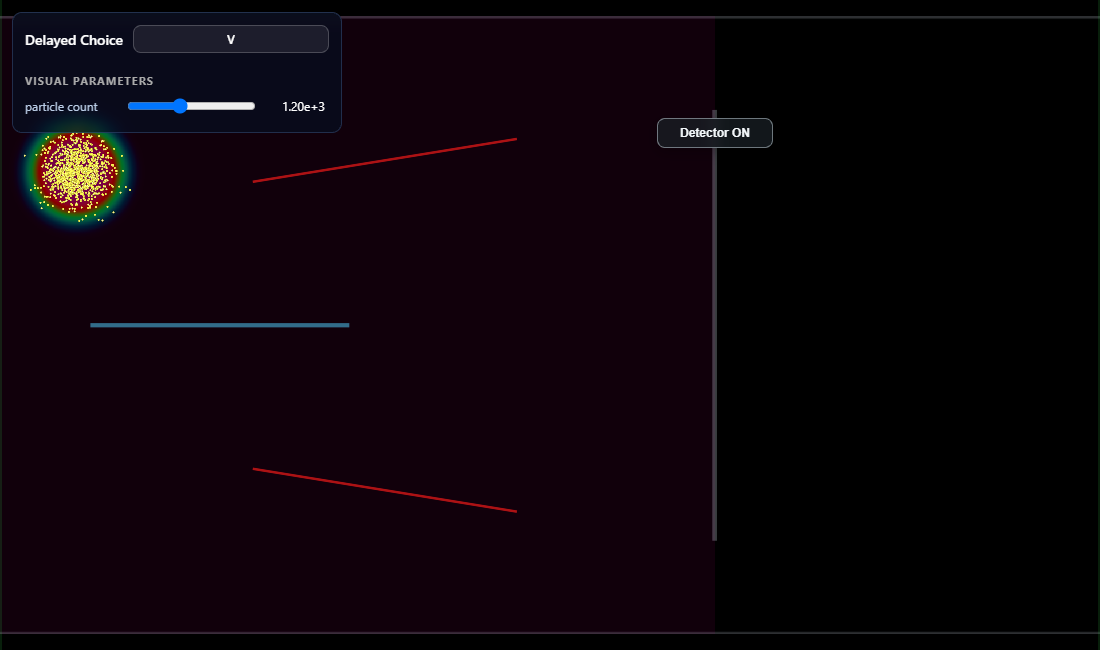
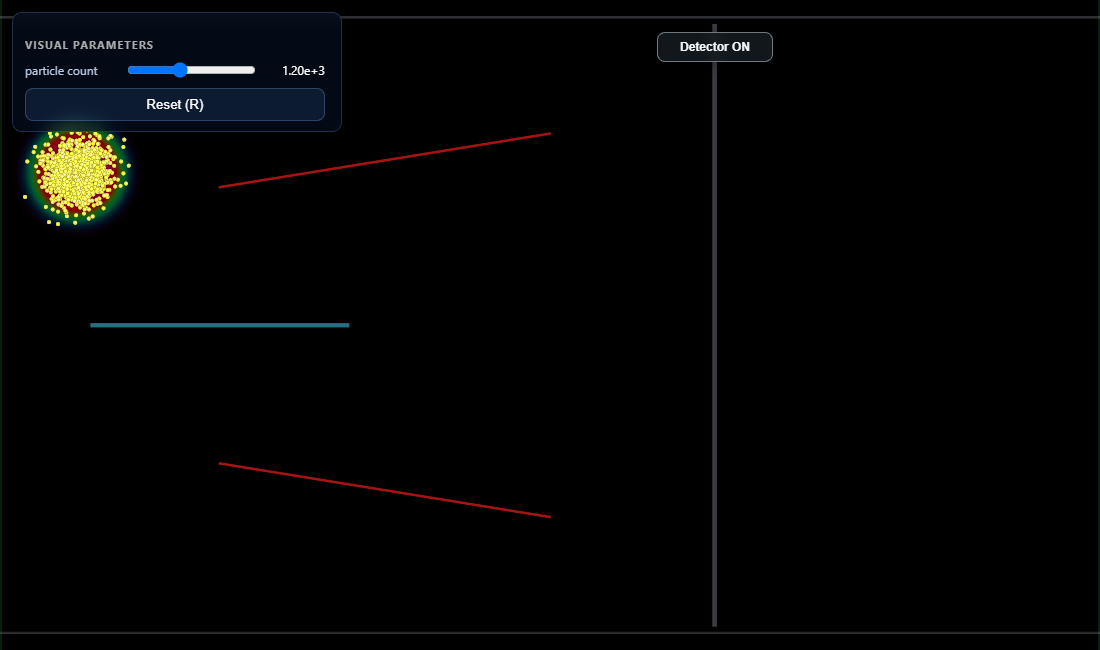
better

diff --git a/delayed-choice/main.js b/delayed-choice/main.js
@@ -70,7 +70,7 @@ const params = {
   guideMirrorX: 0.35,
   guideMirrorAngleTrimDeg: 0,
   guideMirrorYTrim: 0.0,
-  guideMirrorLength: 1550.0,
+  guideMirrorLength: 1950.0,
   guideMirrorWidth: 8.0,
   guideMirrorPhysicalWidth: 2.0,
   guideMirrorV0: 160.0,
@@ -145,9 +145,11 @@ const PRESETS = {
   splitter: {
     params: {
       ...embeddedBasePreset,
-      nParticles: 2,
-      dotSize: 14,
-      trailHalfLife: 90,
+      nParticles: 1,
+      trailHalfLife: 190,
+      dotSize: 15,
+      trailWidth: 11,
+      trailVisGain: 0.9,
     },
     adjustable: ["p0"],
   },
@@ -160,6 +162,7 @@ const PRESETS = {
       dotSize: 5,
       trailHalfLife: 25,
       trailWidth: 3,
+      showTrail: 0,
     },
     adjustable: ["nParticles"],
   },
@@ -173,7 +176,7 @@ const PRESETS = {
       trailWidth: 4,
       detectorActive: 0,
     },
-    adjustable: [],
+    adjustable: ["nParticles"],
   },
 };
 
@@ -406,7 +409,7 @@ addSlider("stepsPerFrame", "Steps/frame", 1, 100, 1);
 addSlider("dt", "dt", 0.01, 0.02, 0.001);
 
 addSectionHeader("Physical Parameters");
-addSlider("p0", "Momentum p", 0.5, 8.0, 0.1, () => resetAll());
+addSlider("p0", "Momentum p", 0.5, 4.0, 0.1, () => resetAll());
 
 addSlider("packetSigma", "packet sigma", 10.0, 150.0, 10.0);
 //addSlider("splitterX", "splitter x", 0.0, 1.0, 0.01, () => resetAll());
@@ -492,7 +495,7 @@ addSlider("trailHalfLife", "trail half-life", 1.0, 150.0, 1.0);
 addSlider("trailWidth", "trail width (px)", 0.5, 10.0, 0.1);
 
 removeEmptySectionHeaders();
-if (presetDefinition && controls.children.length === 0) {
+if (presetDefinition && controls.children.length === 0 && !isEmbedded) {
   document.getElementById("ui").style.display = "none";
 }
 
@@ -909,10 +912,6 @@ function resizeCanvas() {
 
 function simPx(px) {
   return px * params.simScale;
-}
-
-function renderPx(px) {
-  return px / PHYSICAL_DOMAIN_SCALE;
 }
 
 function getViewScale(zoom = view.zoom) {
@@ -1874,7 +1873,7 @@ function densityStepAndStamp() {
   gl.uniform1i(U.partStamp.uState, 0);
 
   gl.uniform2i(U.partStamp.uSimRes, simW, simH);
-  gl.uniform1f(U.partStamp.uPointSize, renderPx(params.dotSize));
+  gl.uniform1f(U.partStamp.uPointSize, params.dotSize);
   gl.uniform1f(U.partStamp.uVisGain, params.visGain);
   gl.uniform1f(U.partStamp.uVisGamma, params.visGamma);
   gl.uniform1f(U.partStamp.uWaveTailFade, params.waveTailFade);
@@ -1882,7 +1881,7 @@ function densityStepAndStamp() {
   gl.uniform1f(U.partStamp.uDotGain, params.dotGain);
   gl.uniform1f(U.partStamp.uStampGain, params.trailStampGain);
   gl.uniform1i(U.partStamp.uNumParticles, params.nParticles);
-  gl.uniform1f(U.partStamp.uTrailWidth, renderPx(params.trailWidth));
+  gl.uniform1f(U.partStamp.uTrailWidth, params.trailWidth);
   gl.uniform1i(U.partStamp.uRenderMode, PARTICLE_RENDER_ALL);
   setViewUniforms(U.partStamp, 0.5, 0.5, 1.0, false);
 
@@ -2112,7 +2111,7 @@ function render() {
     gl.uniform1i(U.partView.uState, 0);
 
     gl.uniform2i(U.partView.uSimRes, simW, simH);
-    gl.uniform1f(U.partView.uPointSize, renderPx(params.dotSize) * view.zoom);
+    gl.uniform1f(U.partView.uPointSize, params.dotSize * view.zoom);
     gl.uniform1f(U.partView.uVisGain, params.visGain);
     gl.uniform1f(U.partView.uVisGamma, params.visGamma);
     gl.uniform1f(U.partView.uWaveTailFade, params.waveTailFade);
@@ -2177,6 +2176,8 @@ function rebuildSimulation() {
 }
 
 function resetAll() {
+  paused = false;
+  pauseButton.textContent = "Pause";
   guideMirrorDetectorX = params.detectorX;
   resetWave();
   rebuildParticles();
@@ -2218,7 +2219,6 @@ async function main() {
         Math.floor(params.nParticles) * DETECTOR_AUTO_PAUSE_FRACTION
       );
       if (
-        params.detectorActive &&
         !detectorAutoPauseTriggered &&
         detectedCount >= autoPauseCount
       ) {

diff --git a/delayed-choice/index.html b/delayed-choice/index.html
@@ -317,8 +317,9 @@
       <h2 id="splitter-applet">At the beam splitter</h2>
       <p>
         The incoming wave packet encounters a balanced splitter. Its wave passes into both arms,
-        while each Bohmian particle has one continuous trajectory guided by the local wave field.
-        Change the momentum to see how the spatial and temporal scales of the motion respond.
+        while each Bohmian particle has one continuous trajectory guided by the local wave field. 
+        At the intersection, the particle "receives information" about the other path, even though it never goes that way.
+        You can move the detector by dragging it, and disable it by clicking it.
       </p>
       <div class="applet-shell is-inactive">
         <div class="applet-toolbar">Wave splitting and individual trajectories</div>
@@ -328,15 +329,17 @@
           <button class="applet-play" type="button" aria-label="Play beam-splitter simulation">Play</button>
         </div>
       </div>
-      <p class="caption">The two trajectories are samples from the same wave-guided flow, not two fragments of one particle.</p>
+        The wave splits, but particle's trajectory does not.
+      <p class="caption">
+      </p>
     </section>
 
     <section class="applet-section" aria-labelledby="ensemble-applet">
       <h2 id="ensemble-applet">A trajectory ensemble</h2>
       <p>
         Many initial positions sampled from \( |\psi|^2 \) reveal the statistical structure of the motion.
-        The detector histogram records where trajectories arrive. Adjust the particle count to compare
-        a sparse sample with a smoother empirical distribution.
+        The detector histogram records where particles arrive. At the intersection the wave experiences interference,
+         and the trajectories weave together to produce the characteristic interference pattern. 
       </p>
       <div class="applet-shell is-inactive">
         <div class="applet-toolbar">Particle ensemble and detection histogram</div>
@@ -346,7 +349,7 @@
           <button class="applet-play" type="button" aria-label="Play trajectory ensemble simulation">Play</button>
         </div>
       </div>
-      <p class="caption">As the sample grows, the detected ensemble more clearly represents the quantum probability flow.</p>
+      <p class="caption"> The interference pattern emerges from the ensemble of trajectories. </p>
     </section>
 
     <section class="applet-section" aria-labelledby="choice-applet">

diff --git a/delayed-choice/full-applet.html b/delayed-choice/full-applet.html
@@ -57,7 +57,8 @@
     #credit a { color:#9fd0ff; text-decoration:none; }
     #credit a:hover { text-decoration:underline; }
     html.is-embedded #credit,
-    html.is-embedded .btns { display:none; }
+    html.is-embedded #pause,
+    html.is-embedded .applet-ui-header { display:none !important; }
     html.is-embedded #ui {
       max-height:calc(100vh - 24px);
       overflow:auto;
@@ -69,8 +70,7 @@
   <div id="wrap">
     <canvas id="c"></canvas>
     <div id="ui">
-      <div style="display:flex; align-items:center; justify-content:space-between; gap:10px; margin-bottom:8px;">
-  <h3 style="margin:0; font-size:14px; font-weight:600; color:#fff;">Delayed Choice</h3>
+      <div class="applet-ui-header" style="display:flex; align-items:center; justify-content:flex-end; gap:10px; margin-bottom:8px;">
   <button id="minui" title="Minimize/expand" style="
     width:34px; height:28px; padding:0;
     border-radius:8px; border:1px solid rgba(255,255,255,0.2);